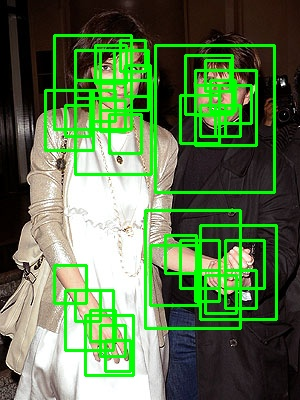
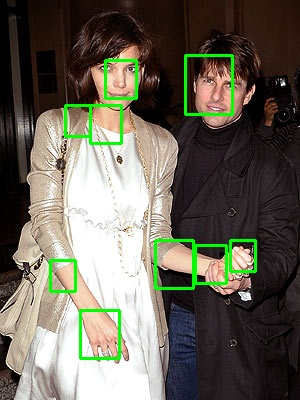
Adjusted params

Changed region(s): [[0.12, 0.06, 0.93, 0.96]]

diff --git a/test2.py b/test2.py
@@ -171,7 +171,7 @@ def boosted_predict_cascade(image, cascade):
         # print(f"Processing Stage {stage_number}")
         score = boosted_predict(image, boosted_classifier, weak_classifiers)
         
-        if score <= .03:
+        if score <= 0.0003:
             break
 
     return score
@@ -234,10 +234,10 @@ def detect_faces_cascade(image, cascade, scale_factor=1.25, step_size=5, overlap
         # Parameters for NMS
 
         print("detected_faces before return:", detected_faces)
-        overlapThresh = 0.3
-        sigma = 0.5
-        min_score = 0.8
-        method = "standard NMS"
+        overlapThresh = 0.000000000001
+        sigma = 0.2
+        min_score = 0.9
+        method = "gaussian soft-NMS"
 
         # Apply NMS
         num_predictions = len(detected_scores)
